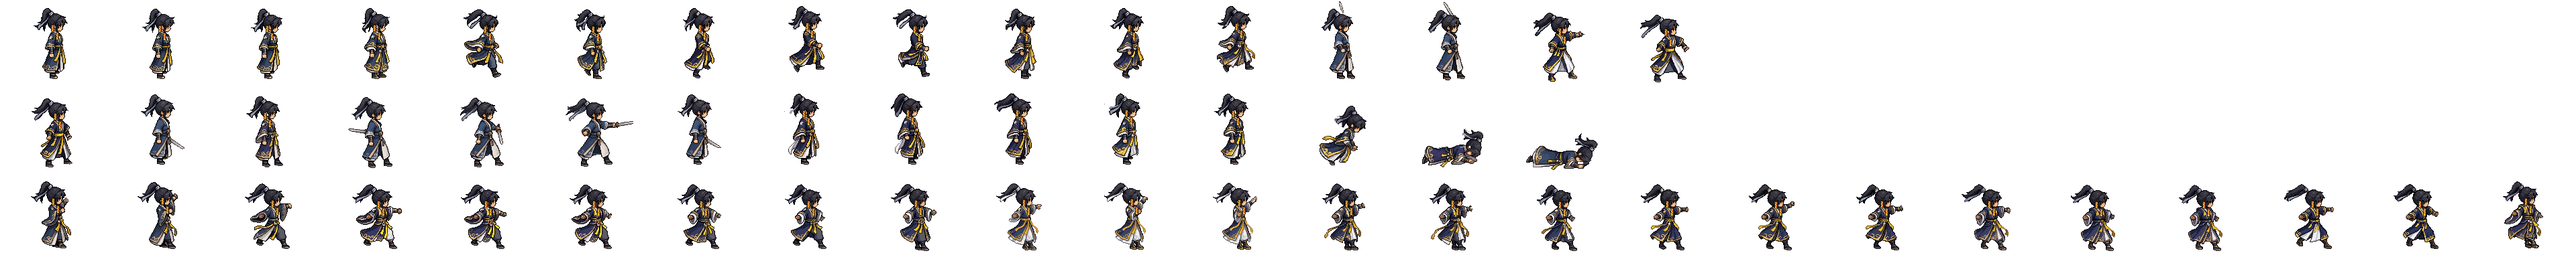
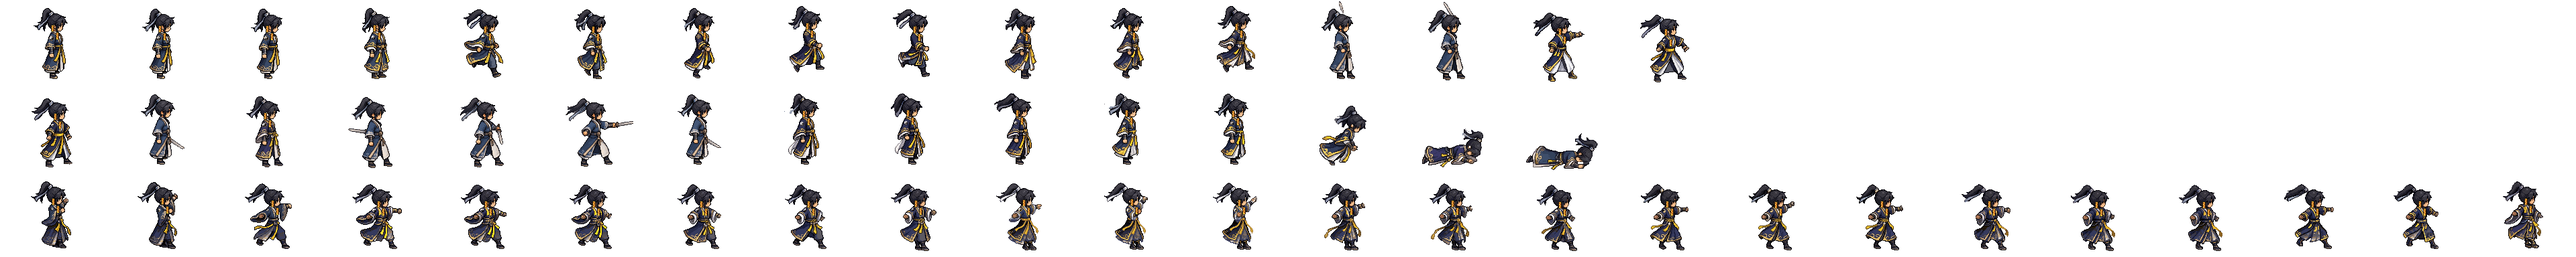
Mao Son nam: khop mau than duoi cac khung danh (het quan trang, ung vang)
Claude-Session: https://claude.ai/code/session_01QQj46swudhcjrv1xLak4k8

diff --git a/cong_cu/claude/ms_nam_b_mau.py b/cong_cu/claude/ms_nam_b_mau.py
@@ -1,0 +1,33 @@
+# Khớp màu thân dưới 3 khung giữa đòn B của Mao Sơn nam (ô x=1440,1600,1760 y=256) theo khung 7,8 (quần xám đậm, ủng đen). Không PixelLab.
+from PIL import Image
+import numpy as np
+P='game/assets/hero_nam_ms.png';SRC='nguon/vfx_goc/hero_nam_ms_truoc_khi_chinh_mau.png'
+im=Image.open(SRC).convert('RGBA');a=np.array(im);cw,ch,Y0,SPLIT,BOOT=160,128,256,72,108
+lum=lambda r:r[...,0]*.3+r[...,1]*.59+r[...,2]*.11
+def sat(r):
+    r=r.astype(float);return (r.max(1)-r.min(1))/np.maximum(r.max(1),1)
+def gold(r):return (sat(r)>0.4)&(r[:,0].astype(int)>r[:,2].astype(int)+40)
+def reg(c,lo,hi):
+    cell=a[Y0:Y0+ch,c*cw:(c+1)*cw];m=cell[:,:,3]>0;m[:lo]=False;m[hi:]=False;return cell,m
+refl=[];refb=[]
+for c in (7,8):
+    cell,m=reg(c,SPLIT,BOOT);px=cell[m][:,:3];refl.append(px[~gold(px)])
+    cell,m=reg(c,BOOT,ch);px=cell[m][:,:3];refb.append(px[~gold(px)])
+refl=np.concatenate(refl);refl=refl[np.argsort(lum(refl.astype(float)))]
+refb=np.concatenate(refb);refb=refb[np.argsort(lum(refb.astype(float)))]
+def remap(px,ref):
+    l=lum(px.astype(float));o=np.argsort(l,kind='stable');r=np.empty(len(l));r[o]=np.arange(len(l))/max(len(l)-1,1)
+    return ref[np.minimum((r*(len(ref)-1)).astype(int),len(ref)-1)]
+for c in (0,1,2,3,4,5,9,10,11,12,13,14,18,19,20,21,22):
+    # thân dưới (trừ ủng): pixel không vàng -> khớp theo bảng quần/vạt áo; vàng (viền áo, đai) giữ nguyên
+    cell,m=reg(c,SPLIT,BOOT);idx=np.where(m);px=cell[m][:,:3];g=gold(px)
+    new=px.copy();new[~g]=remap(px[~g],refl);cell[idx[0],idx[1],:3]=new
+    # ủng: mọi pixel (cả vàng) -> bảng ủng đen
+    cell,m=reg(c,BOOT,ch);idx=np.where(m);px=cell[m][:,:3];cell[idx[0],idx[1],:3]=remap(px,refb)
+Image.fromarray(a).save(P)
+old=Image.open(SRC).convert('RGBA');new=Image.open(P).convert('RGBA');cols=[0,1,12,13,18,19,22];S=2
+out=Image.new('RGBA',(len(cols)*cw*S,ch*S*2+10),(70,70,70,255))
+for i,c in enumerate(cols):
+    for j,s in enumerate((old,new)):
+        out.alpha_composite(s.crop((c*cw,Y0,(c+1)*cw,Y0+ch)).resize((cw*S,ch*S),Image.NEAREST),(i*cw*S,j*(ch*S+10)))
+out.save('nguon/tham_chieu/maoson_nam_b_truoc_sau.png')

diff --git a/CLAUDE.md b/CLAUDE.md
@@ -463,3 +463,4 @@ Chủ game gửi ảnh sảnh iPhone ngang (~664×307, trong trình duyệt nên
 - (25/11) **Màn tạo nhân vật trên màn rất thấp (iPhone trong khung artifact ~550×278 CSS px): nút Khởi hành/Lưu bị đẩy ra ngoài khung (top 368 > cao 278).** Sửa: `.cxR .cxbar{position:sticky;bottom:-6px}` (cột phải tự cuộn, nút luôn ghim đáy) + `max-height:520`: nút chữ 14px, 1 dòng, cao ~31px. Kiểm 550×278, 600×290, 667×307, 844×390: nút nằm trong khung; sảnh cùng cỡ không có nút lọt. Ảnh: `nguon/tham_chieu/tao_nhan_vat_man_thap_550.png`.
 
 - (25/11) **Lá bùa vàng chữ đỏ (tóc + ngực) của Mao Sơn** (ảnh minh họa có, sprite thiếu vì tham chiếu PixelLab quá nhỏ): vẽ pixel 5×11 bằng code và gắn theo vị trí mặt của Master: `cong_cu/claude/fix_talisman.py` (chạy SAU `build_outfit.py maoson ms nam nu` rồi `fix_ribbon.py`). 45/48 khung mỗi giới; bỏ 3 khung trúng đòn/ngã (`1920,128`, `2080,128`, `2240,128`). 0 lượt PixelLab. Chủ game đã CẤM dùng PixelLab thêm cho trang phục (25/11). Ảnh kiểm: `nguon/tham_chieu/maoson_bua_*`.
+- (25/11) **Mao Sơn nam: sửa đổi áo lúc đánh (không PixelLab).** `hero_nam_ms.png` hàng y=256 (khung đòn A/B/C): 17 khung (cột 0–5, 9–14, 18–22) bị PixelLab trả quần/vạt áo TRẮNG và ủng vàng, khác quần xám đậm và ủng đen của khung 7, 8. `cong_cu/claude/ms_nam_b_mau.py` khớp màu thân dưới (từ y=72 của ô) theo khung 7, 8 bằng hạng độ sáng (giữ hình pixel, giữ viền và đai vàng, chỉ đổi màu; ủng từ y=108 khớp theo ủng đen). Gốc trước sửa: `nguon/vfx_goc/hero_nam_ms_truoc_khi_chinh_mau.png` (chép đè lại để hoàn nguyên). Ảnh: `nguon/tham_chieu/maoson_nam_b_truoc_sau.png`, `maoson_nam_dh_truoc_sau.png`. **Còn lại:** (1) các khung còn áo xanh xám cũ chưa đổi: hàng 0 ô 12, 13; hàng 1 ô 1, 3–6 (đang dùng khi lướt hoặc trúng đòn cầm kiếm); (2) khung 23 (cuối đòn C) có hoa văn xoáy lạ; (3) hàng y=0 và y=128 chưa kiểm khớp màu. Nữ (`hero_nu_ms.png`) chưa kiểm theo cách này.
